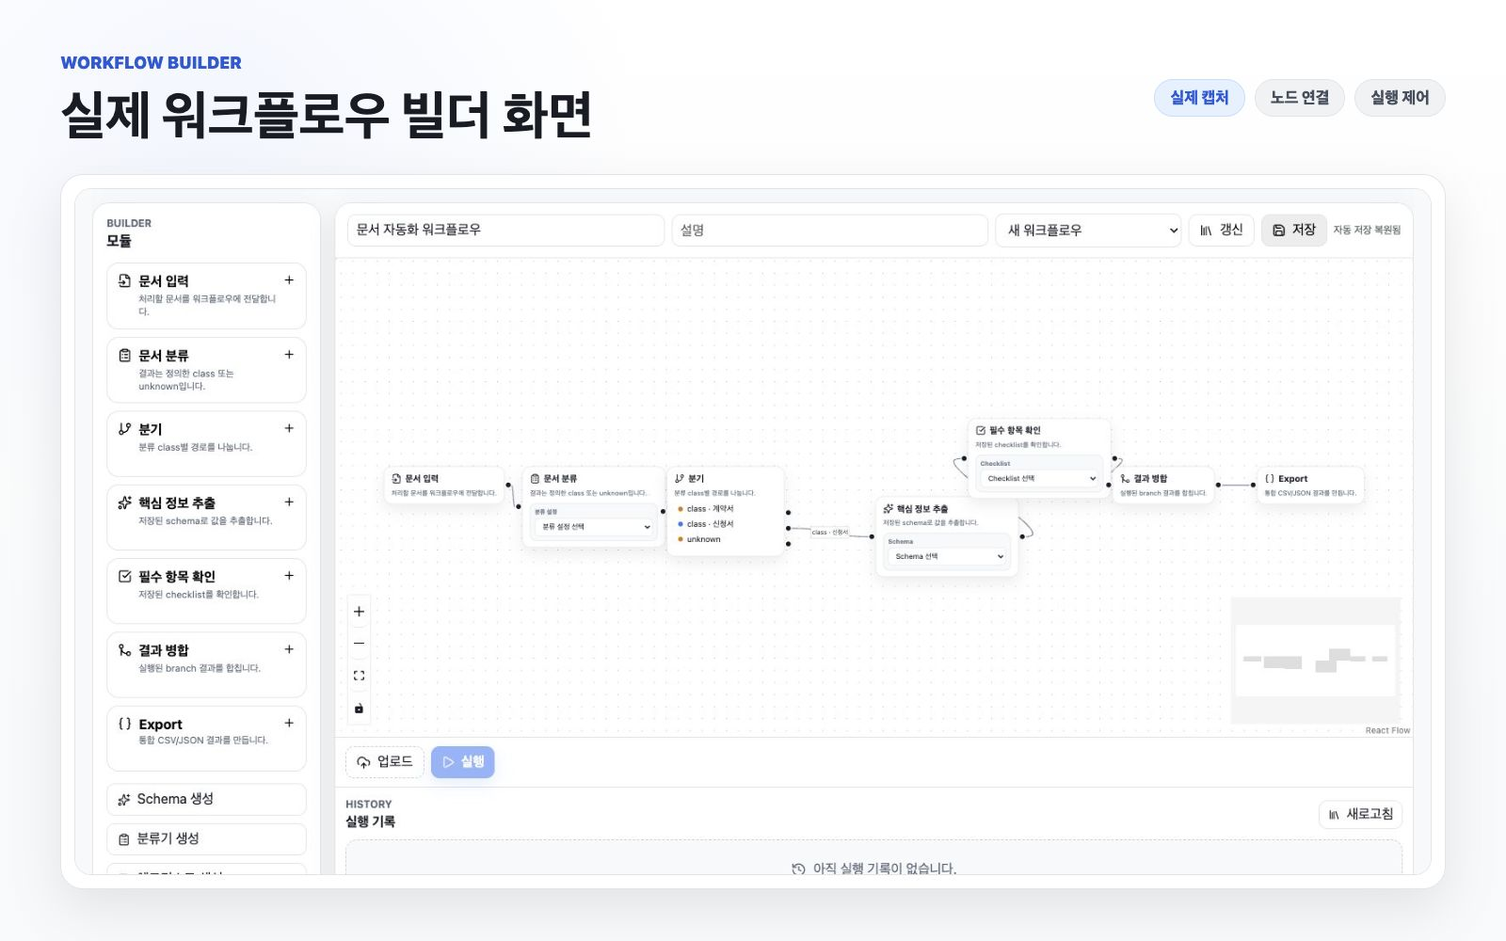
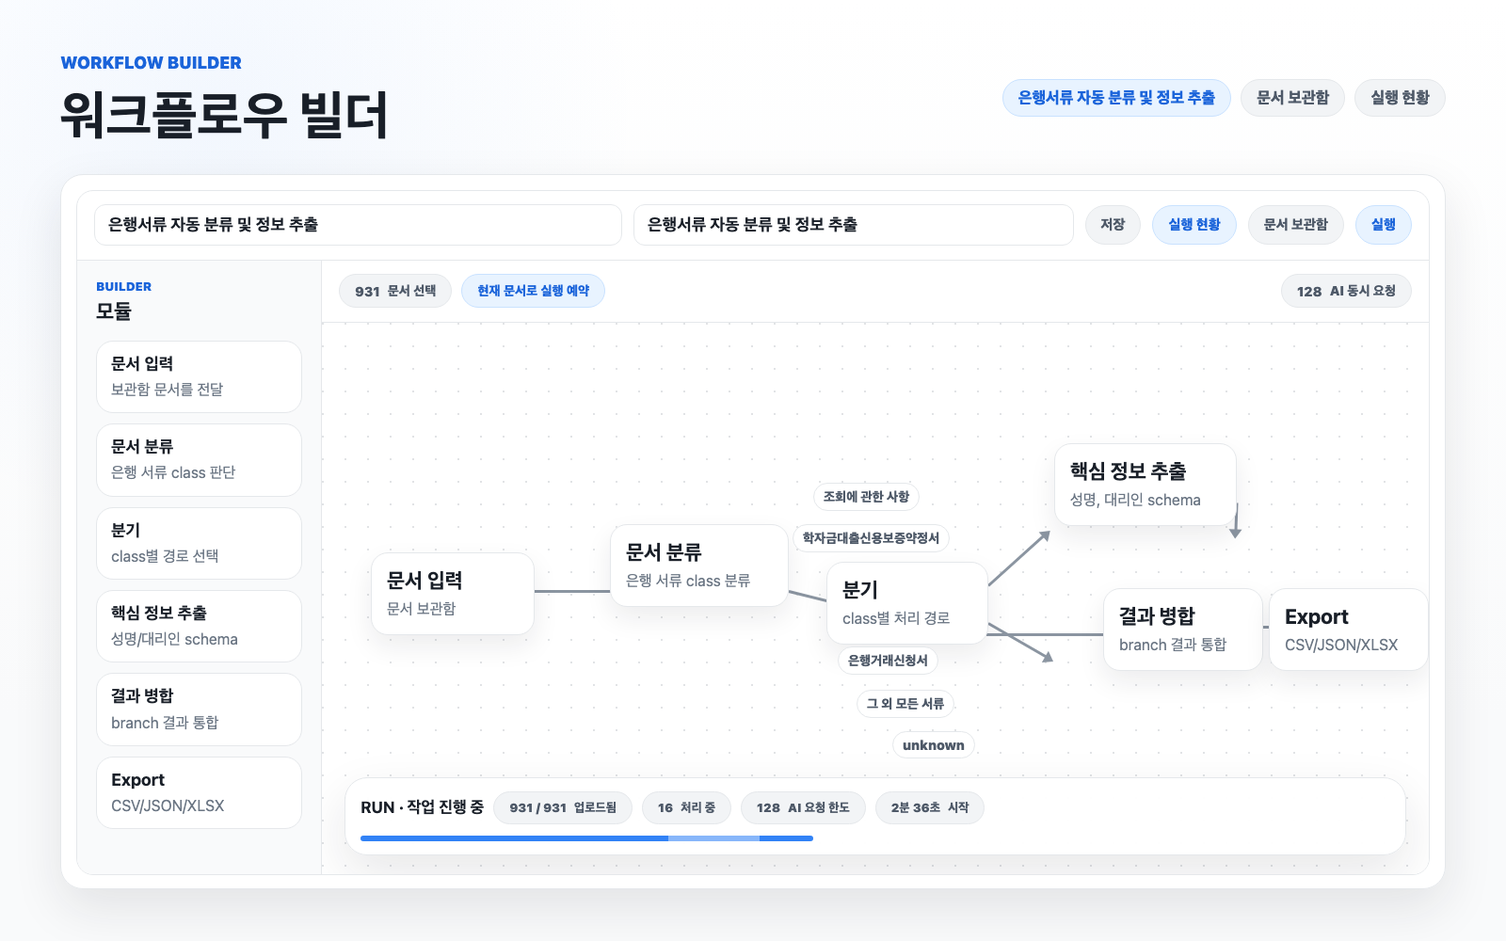
Update README media and docs navigation

diff --git a/assets/readme-src/workflow-builder.html b/assets/readme-src/workflow-builder.html
@@ -11,22 +11,89 @@
       <header style="display: flex; align-items: center; justify-content: space-between;">
         <div>
           <p class="eyebrow">Workflow Builder</p>
-          <h1 style="font-size: 56px;">실제 워크플로우 빌더 화면</h1>
+          <h1 style="font-size: 56px;">워크플로우 빌더</h1>
         </div>
         <div style="display: flex; gap: 10px;">
-          <span class="pill">실제 캡처</span>
-          <span class="pill muted-pill">노드 연결</span>
-          <span class="pill muted-pill">실행 제어</span>
+          <span class="pill">은행서류 자동 분류 및 정보 추출</span>
+          <span class="pill muted-pill">문서 보관함</span>
+          <span class="pill muted-pill">실행 현황</span>
         </div>
       </header>
 
-      <section class="surface" style="height: 760px; margin-top: 32px; overflow: hidden; padding: 14px;">
-        <div style="border: 1px solid var(--gray-200); border-radius: 18px; height: 730px; overflow: hidden; width: 100%;">
-          <img
-            alt="Workflow Builder actual screen"
-            src="./workflow-builder-capture.png"
-            style="display: block; transform: translateY(-84px); width: 100%;"
-          />
+      <section class="surface" style="height: 760px; margin-top: 32px; overflow: hidden; padding: 16px;">
+        <div style="border: 1px solid var(--gray-200); border-radius: 18px; height: 728px; overflow: hidden;">
+          <div style="align-items: center; border-bottom: 1px solid var(--gray-200); display: grid; gap: 12px; grid-template-columns: 1.2fr 1fr auto auto auto auto; height: 74px; padding: 0 18px;">
+            <div class="mini-card" style="border-radius: 12px; padding: 10px 14px;">
+              <b style="font-size: 18px;">은행서류 자동 분류 및 정보 추출</b>
+            </div>
+            <div class="mini-card" style="border-radius: 12px; padding: 10px 14px;">
+              <b style="font-size: 18px;">은행서류 자동 분류 및 정보 추출</b>
+            </div>
+            <span class="pill muted-pill" style="font-size: 15px; min-height: 42px;">저장</span>
+            <span class="pill" style="font-size: 15px; min-height: 42px;">실행 현황</span>
+            <span class="pill muted-pill" style="font-size: 15px; min-height: 42px;">문서 보관함</span>
+            <span class="pill" style="font-size: 15px; min-height: 42px;">실행</span>
+          </div>
+
+          <div style="display: grid; grid-template-columns: 260px minmax(0, 1fr); height: 654px;">
+            <aside style="background: var(--gray-50); border-right: 1px solid var(--gray-200); padding: 20px;">
+              <p class="eyebrow" style="font-size: 13px; margin-bottom: 6px;">Builder</p>
+              <h3 style="font-size: 22px; margin-bottom: 16px;">모듈</h3>
+              <div style="display: grid; gap: 11px;">
+                <div class="mini-card" style="padding: 13px 15px;"><b style="font-size: 18px;">문서 입력</b><span>보관함 문서를 전달</span></div>
+                <div class="mini-card" style="padding: 13px 15px;"><b style="font-size: 18px;">문서 분류</b><span>은행 서류 class 판단</span></div>
+                <div class="mini-card" style="padding: 13px 15px;"><b style="font-size: 18px;">분기</b><span>class별 경로 선택</span></div>
+                <div class="mini-card" style="padding: 13px 15px;"><b style="font-size: 18px;">핵심 정보 추출</b><span>성명/대리인 schema</span></div>
+                <div class="mini-card" style="padding: 13px 15px;"><b style="font-size: 18px;">결과 병합</b><span>branch 결과 통합</span></div>
+                <div class="mini-card" style="padding: 13px 15px;"><b style="font-size: 18px;">Export</b><span>CSV/JSON/XLSX</span></div>
+              </div>
+            </aside>
+
+            <main style="display: grid; grid-template-rows: auto 1fr; min-width: 0;">
+              <div style="align-items: center; border-bottom: 1px solid var(--gray-200); display: flex; gap: 10px; min-height: 66px; padding: 10px 18px;">
+                <span class="pill muted-pill" style="font-size: 14px; min-height: 34px;"><b>931</b> 문서 선택</span>
+                <span class="pill" style="font-size: 14px; min-height: 34px;">현재 문서로 실행 예약</span>
+                <span class="pill muted-pill" style="font-size: 14px; margin-left: auto; min-height: 34px;"><b>128</b> AI 동시 요청</span>
+              </div>
+
+              <div class="canvas" style="border: 0; border-radius: 0; height: 588px;">
+                <div class="node" style="left: 52px; top: 244px; width: 174px;"><b>문서 입력</b><span>문서 보관함</span></div>
+                <div class="edge" style="left: 226px; top: 284px; width: 96px;"></div>
+
+                <div class="node" style="left: 306px; top: 214px; width: 190px;"><b>문서 분류</b><span>은행 서류 class 분류</span></div>
+                <div class="edge" style="left: 496px; top: 284px; width: 72px; transform: rotate(14deg);"></div>
+
+                <div class="node" style="left: 536px; top: 254px; width: 172px;"><b>분기</b><span>class별 처리 경로</span></div>
+                <span class="branch-label" style="left: 522px; top: 170px;">조회에 관한 사항</span>
+                <span class="branch-label" style="left: 500px; top: 214px;">학자금대출신용보증약정서</span>
+                <span class="branch-label" style="left: 548px; top: 344px;">은행거래신청서</span>
+                <span class="branch-label" style="left: 568px; top: 390px;">그 외 모든 서류</span>
+                <span class="branch-label" style="left: 606px; top: 434px;">unknown</span>
+
+                <div class="edge" style="left: 708px; top: 278px; width: 80px; transform: rotate(-42deg);"></div>
+                <div class="node" style="left: 778px; top: 128px; width: 194px;"><b>핵심 정보 추출</b><span>성명, 대리인 schema</span></div>
+
+                <div class="edge" style="left: 708px; top: 318px; width: 72px; transform: rotate(30deg);"></div>
+                <div class="edge" style="left: 972px; top: 190px; width: 30px; transform: rotate(92deg);"></div>
+                <div class="edge" style="left: 706px; top: 330px; width: 134px;"></div>
+                <div class="node" style="left: 830px; top: 282px; width: 146px;"><b>결과 병합</b><span>branch 결과 통합</span></div>
+
+                <div class="edge" style="left: 976px; top: 322px; width: 34px;"></div>
+                <div class="node" style="left: 1006px; top: 282px; width: 132px;"><b>Export</b><span>CSV/JSON/XLSX</span></div>
+
+                <div class="surface" style="bottom: 22px; left: 24px; padding: 14px 16px; position: absolute; right: 24px;">
+                  <div style="align-items: center; display: flex; gap: 10px;">
+                    <b style="font-size: 17px;">RUN · 작업 진행 중</b>
+                    <span class="pill muted-pill" style="font-size: 13px; min-height: 30px;"><b>931 / 931</b> 업로드됨</span>
+                    <span class="pill muted-pill" style="font-size: 13px; min-height: 30px;"><b>16</b> 처리 중</span>
+                    <span class="pill muted-pill" style="font-size: 13px; min-height: 30px;"><b>128</b> AI 요청 한도</span>
+                    <span class="pill muted-pill" style="font-size: 13px; min-height: 30px;"><b>2분 36초</b> 시작</span>
+                  </div>
+                  <div class="progress-line" style="height: 6px; margin-top: 12px; width: 44%;"></div>
+                </div>
+              </div>
+            </main>
+          </div>
         </div>
       </section>
     </main>

diff --git a/assets/readme-src/core-modules.html b/assets/readme-src/core-modules.html
@@ -31,7 +31,7 @@
             <div class="mini-card"><b>Input</b><span>single/batch</span></div>
             <div class="mini-card"><b>Branch</b><span>class path</span></div>
             <div class="mini-card"><b>Merge</b><span>결과 통합</span></div>
-            <div class="mini-card"><b>Export</b><span>CSV/JSON</span></div>
+            <div class="mini-card"><b>Export</b><span>CSV/JSON/XLSX</span></div>
           </div>
         </article>
 
@@ -40,7 +40,7 @@
           <p style="font-size: 19px; margin-top: 6px;">문서 preview, module 결과, 상태를 같은 화면에서 확인합니다.</p>
           <div class="table" style="margin-top: 18px;">
             <div class="table-row header"><span>결과</span><span>상태</span><span>내보내기</span></div>
-            <div class="table-row"><span>KIE</span><span>완료</span><span>CSV</span></div>
+            <div class="table-row"><span>KIE</span><span>완료</span><span>XLSX</span></div>
             <div class="table-row"><span>Required</span><span>검토</span><span>JSON</span></div>
           </div>
         </article>
@@ -77,7 +77,7 @@
           </div>
           <div class="table" style="margin-top: 18px;">
             <div class="table-row header"><span>필드</span><span>값</span><span>신뢰도</span></div>
-            <div class="table-row"><span>성명</span><span>김토스</span><span>98%</span></div>
+            <div class="table-row"><span>성명</span><span>홍길동</span><span>98%</span></div>
           </div>
         </article>
 

diff --git a/docs/readme-media.html b/docs/readme-media.html
@@ -947,7 +947,7 @@
               <div class="mini-card"><strong>Input</strong><p>file/folder</p></div>
               <div class="mini-card"><strong>Branch</strong><p>class path</p></div>
               <div class="mini-card"><strong>Merge</strong><p>결과 통합</p></div>
-              <div class="mini-card"><strong>Export</strong><p>CSV/JSON</p></div>
+              <div class="mini-card"><strong>Export</strong><p>CSV/JSON/XLSX</p></div>
             </div>
           </div>
           <div class="module-hero">
@@ -974,7 +974,7 @@
         </div>
         <div class="module-card">
           <div class="module-title"><span class="letter">K</span><div><h3>Key Information Extractor</h3><p>schema 기준으로 field, value, evidence를 추출합니다.</p></div></div>
-          <div class="compact-table"><div><span>필드</span><span>값</span><span>신뢰도</span></div><div><span>성명</span><span>김토스</span><span>98%</span></div></div>
+          <div class="compact-table"><div><span>필드</span><span>값</span><span>신뢰도</span></div><div><span>성명</span><span>홍길동</span><span>98%</span></div></div>
         </div>
         <div class="module-card">
           <div class="module-title"><span class="letter">Q</span><div><h3>Required Field Checker</h3><p>필수 항목 존재 여부를 상태로 정리합니다.</p></div></div>

diff --git a/assets/readme-src/workflow-builder-results.html b/assets/readme-src/workflow-builder-results.html
@@ -41,7 +41,7 @@
       <header style="display: flex; align-items: center; justify-content: space-between;">
         <div>
           <p class="eyebrow">Workflow Builder</p>
-          <h1 style="font-size: 56px;">워크플로우 빌더</h1>
+          <h1 style="font-size: 56px;">워크플로우 빌더: 결과 검토</h1>
         </div>
         <div style="display: flex; gap: 10px;">
           <span class="pill">결과 상세보기</span>

diff --git a/README.md b/README.md
@@ -29,6 +29,8 @@ NGROK_URL=https://your-domain.ngrok.app ACCESS_CODE=<shared-code> ./scripts/star
 
 ## Features
 
+### 단일 모듈 실행과 워크플로우 연결
+
 ![Core modules](assets/readme/core-modules.png)
 
 | Module | Purpose |
@@ -56,7 +58,11 @@ NGROK_URL=https://your-domain.ngrok.app ACCESS_CODE=<shared-code> ./scripts/star
 
 ## Workflow Builder
 
+### 워크플로우 빌더
+
 ![Workflow Builder](assets/readme/workflow-builder.png)
+
+### 워크플로우 빌더: 결과 검토
 
 ![Workflow Builder result view](assets/readme/workflow-builder-results.png)
 
@@ -65,9 +71,9 @@ NGROK_URL=https://your-domain.ngrok.app ACCESS_CODE=<shared-code> ./scripts/star
 - 새 업로드는 먼저 보관함에 저장되고, workflow run은 보관함 document id를 참조합니다.
 - 보관함 문서를 선택하면 업로드를 반복하지 않고 같은 원본 payload를 재사용합니다.
 - 새로고침이나 네트워크 끊김 후에는 `이어가기`로 같은 원본을 다시 선택해 남은 항목만 업로드할 수 있습니다.
-- 실행 중에는 `추론 일시중단`, `이어하기`, `같은 문서로 다시 실행`, `실행 예약`, `추론 중단`으로 상태를 제어합니다.
+- 실행 중에는 `추론 일시중단`, `이어하기`, `실행 예약`, `추론 중단`으로 상태를 제어합니다.
 - 워크플로우 중단은 보관함 문서를 삭제하지 않고 진행 중인 추론만 멈춥니다. 원본 삭제는 문서 보관함에서만 수행합니다.
-- `대기열 추가`는 업로드된 원본 문서를 복사하지 않고 다음 workflow run을 `waiting` 상태로 등록하며, 앞선 run이 끝나면 자동으로 시작합니다.
+- `실행 예약`은 업로드된 원본 문서를 복사하지 않고 다음 workflow run을 `waiting` 상태로 등록하며, 앞선 run이 끝나면 자동으로 시작합니다.
 - 진행 상태는 `업로드됨`, `전처리`, `실행 중`, `대기`, `완료/검토/실패` counter로 분리해 표시합니다.
 - 결과 화면은 문서 목록 스크롤 위치를 유지하고, 상세 결과에서 문서 이미지와 module output을 함께 검수합니다.
 - 결과 CSV/JSON에는 문서별 `upload_duration_ms`, `inference_duration_ms`가 포함됩니다.
@@ -86,18 +92,13 @@ NGROK_URL=https://your-domain.ngrok.app ACCESS_CODE=<shared-code> ./scripts/star
 
 공통 상태는 `uploading`, `preprocessing`, `waiting`, `running`, `paused`, `completed`, `needs_review`, `completed_with_errors`, `failed`, `canceled`를 사용합니다.
 
-## Recovery Controls
+## Detailed Docs
 
-| Control | Behavior |
+| Topic | Link |
 | --- | --- |
-| `추론 중단` | 실행 기록과 보관함 문서는 남기고 현재 workflow inference만 취소합니다. |
-| `계속 처리` | 업로드가 끝났지만 아직 실행되지 않은 run/batch를 시작합니다. |
-| `이어가기` | 새로고침 등으로 끊긴 업로드에서 같은 원본을 재선택해 누락 파일만 등록합니다. |
-| `일시중단` | 업로드된 문서는 보존하고, 새 item 실행을 멈춥니다. 진행 중인 VLM 호출은 현재 item까지만 마무리합니다. |
-| `같은 문서로 다시 실행` | 보관함의 같은 document id를 재사용해 현재 workflow snapshot으로 새 run을 만듭니다. |
-| `대기열 추가` | 업로드된 원본은 공유하고 새 workflow snapshot을 `waiting` run으로 추가합니다. 이전 run이 `completed`, `needs_review`, `completed_with_errors`가 되면 다음 대기 run을 자동 시작합니다. |
-| `대기 취소` | 아직 시작하지 않은 `waiting` run만 취소하며 공유 문서는 삭제하지 않습니다. |
-| `실패 재시도` | 결과 상세 화면에서 실패한 문서만 다시 queue에 넣고, 성공한 문서는 그대로 보존합니다. |
+| Recovery controls | [docs/recovery-controls.md](docs/recovery-controls.md) |
+| API shape | [docs/api-shape.md](docs/api-shape.md) |
+| Production hosting | [docs/deployment.md](docs/deployment.md) |
 
 ## Input / Output
 
@@ -113,25 +114,7 @@ NGROK_URL=https://your-domain.ngrok.app ACCESS_CODE=<shared-code> ./scripts/star
 | KIE | field, value, normalized value, confidence, evidence |
 | Classification | class name, confidence, reason, evidence |
 | Required Check | item별 present/missing/uncertain/not_applicable |
-| Workflow Export | branch별 union-column CSV/JSON, upload/inference duration |
-
-## API Shape
-
-| Area | Endpoint |
-| --- | --- |
-| System status | `GET /api/system/status` |
-| Document library | `POST /api/library/uploads`, `GET /api/documents`, `GET /api/documents/ids`, `POST /api/documents/selection`, `POST /api/documents/delete`, `GET /api/library/tree`, `POST /api/library/folders`, `POST /api/library/copy`, `POST /api/library/move`, `DELETE /api/documents/{document_id}` |
-| Workflow from library | `POST /api/workflows/{workflow_id}/runs/from-documents` |
-| Workflow upload legacy | `POST /api/workflows/{workflow_id}/runs/init`, `POST /api/workflow-runs/{run_id}/items`, `POST /api/workflow-runs/{run_id}/start` |
-| Workflow recovery | `POST /api/workflow-runs/{run_id}/discard`, `POST /api/workflow-runs/{run_id}/resume`, `POST /api/workflow-runs/{run_id}/pause`, `POST /api/workflow-runs/{run_id}/restart`, `POST /api/workflow-runs/{run_id}/retry-failed` |
-| Workflow queue | `POST /api/workflow-runs/{run_id}/enqueue`, `POST /api/workflow-runs/{run_id}/cancel-waiting`, `POST /api/workflow-runs/{run_id}/start` |
-| KIE from library | `POST /api/batches/from-documents` |
-| Classification from library | `POST /api/classification-batches/from-documents` |
-| Required check from library | `POST /api/required-field-check-batches/from-documents` |
-| Legacy batch upload | `POST /api/batches/init`, `POST /api/batches/{batch_id}/items`, `POST /api/batches/{batch_id}/start` |
-| Summary polling | `GET /api/workflow-runs/{run_id}/summary`, `GET /api/batches/{batch_id}/summary` 계열 |
-
-기존 단일 `/api/documents` multipart API는 호환성용으로 즉시 전처리 완료 계약을 유지합니다. 보관함 대량 업로드 API가 백그라운드 conversion queue를 사용합니다.
+| Workflow Export | branch별 union-column CSV/JSON/XLSX, upload/inference duration |
 
 ## Stack
 
@@ -182,59 +165,13 @@ VLM_MODEL_NAME=mock-vlm
 | `DATABASE_MAX_OVERFLOW` | `0` | pool 크기를 넘는 임시 connection 허용 수 |
 | `DATABASE_POOL_TIMEOUT_SECONDS` | `60` | DB connection 대기 timeout |
 | `UPLOAD_MAX_BATCH_FILES` | `10000` | 한 번에 업로드할 수 있는 batch 파일 수 |
+| `UPLOAD_RETENTION_HOURS` | `24` | 업로드 문서 보존 시간 |
 
 Workflow local blocking work는 `WORKFLOW_MAX_WORKERS` 크기의 전용 executor 큐로 제한합니다. 대량 문서 실행에서 worker 대기 자체가 Python default threadpool을 점유하지 않도록 하기 위한 구조입니다.
 
 Workflow 화면의 `처리 중`은 workflow item이 모듈 단계에 진입한 문서 수입니다. 실제 provider 동시 호출 수는 별도 KPI인 `AI 요청 중 / AI 요청 한도`, provider 호출 대기는 `AI 요청 대기`로 표시됩니다. async VLM 호출은 `VLM_TIMEOUT_SECONDS` 안에 완료되지 않으면 실패/재시도 경로로 수렴합니다.
-| `UPLOAD_RETENTION_HOURS` | `24` | 업로드 문서 보존 시간 |
 
 운영에서 5,000장 이상 대량 처리를 자주 실행한다면 SQLite보다 Postgres 사용을 권장합니다.
-
-## Production Hosting
-
-기본 배포 방식은 frontend 정적 호스팅과 backend API 분리 배포입니다. 단일 서버 fallback도 지원합니다.
-
-| Env | Description |
-| --- | --- |
-| `APP_ENV=production` | production mode |
-| `ACCESS_CONTROL_MODE=shared_secret` | 공유 접근 코드 기반 접근 제어 |
-| `APP_ACCESS_SECRET` | 외부 접근 코드 |
-| `SESSION_SECRET_KEY` | HttpOnly session cookie 서명 키 |
-| `CORS_ALLOWED_ORIGINS` | frontend origin allowlist |
-| `DATABASE_URL` | SQLite 또는 Postgres URL |
-| `STORAGE_BACKEND=local` | local persistent volume 저장 |
-| `SERVE_FRONTEND=true` | FastAPI가 `frontend/dist`를 직접 서빙 |
-
-```bash
-cd frontend
-npm run build
-
-APP_ENV=production \
-ACCESS_CONTROL_MODE=shared_secret \
-APP_ACCESS_SECRET=<shared-code> \
-SESSION_SECRET_KEY=<session-secret> \
-DATABASE_URL=sqlite:////data/document-automation.db \
-DOCUMENT_STORAGE_DIR=/data/documents \
-RAW_STORAGE_DIR=/data/raw \
-PROCESSING_TMP_DIR=/data/processing \
-UPLOAD_RETENTION_HOURS=24 \
-SERVE_FRONTEND=true \
-FRONTEND_DIST_DIR="$(pwd)/dist" \
-../.venv/bin/python -m uvicorn app.main:app --app-dir ../backend --host 0.0.0.0 --port 8000
-```
-
-세부 배포 절차는 [docs/deployment.md](docs/deployment.md)에 정리되어 있습니다.
-
-## README Media
-
-README 이미지는 `assets/readme-src/*.html`에서 관리합니다. 워크플로우 빌더 이미지는 로컬 웹 UI를 직접 캡처한 화면을 사용하고, 나머지는 같은 스타일의 HTML artboard를 `assets/readme/*.png`로 렌더링합니다.
-
-## Test
-
-```bash
-npm run build --prefix frontend
-.venv/bin/python -m pytest backend -q
-```
 
 ## Repository
 

diff --git a/docs/api-shape.md b/docs/api-shape.md
@@ -1,0 +1,24 @@
+# API Shape
+
+주요 API는 문서 보관함을 기준으로 구성되어 있습니다. 기존 multipart 업로드 API는 호환성과 업로드 이어가기를 위해 유지합니다.
+
+| Area | Endpoint |
+| --- | --- |
+| System status | `GET /api/system/status` |
+| Document library | `POST /api/library/uploads`, `GET /api/documents`, `GET /api/documents/ids`, `POST /api/documents/selection`, `POST /api/documents/delete`, `GET /api/library/tree`, `POST /api/library/folders`, `POST /api/library/copy`, `POST /api/library/move`, `DELETE /api/documents/{document_id}` |
+| Workflow from library | `POST /api/workflows/{workflow_id}/runs/from-documents` |
+| Workflow upload legacy | `POST /api/workflows/{workflow_id}/runs/init`, `POST /api/workflow-runs/{run_id}/items`, `POST /api/workflow-runs/{run_id}/start` |
+| Workflow recovery | `POST /api/workflow-runs/{run_id}/discard`, `POST /api/workflow-runs/{run_id}/resume`, `POST /api/workflow-runs/{run_id}/pause`, `POST /api/workflow-runs/{run_id}/restart`, `POST /api/workflow-runs/{run_id}/retry-failed` |
+| Workflow queue | `POST /api/workflow-runs/{run_id}/enqueue`, `POST /api/workflow-runs/{run_id}/cancel-waiting`, `POST /api/workflow-runs/{run_id}/start`, `DELETE /api/workflow-runs/{run_id}/queue-entry` |
+| KIE from library | `POST /api/batches/from-documents` |
+| Classification from library | `POST /api/classification-batches/from-documents` |
+| Required check from library | `POST /api/required-field-check-batches/from-documents` |
+| Legacy batch upload | `POST /api/batches/init`, `POST /api/batches/{batch_id}/items`, `POST /api/batches/{batch_id}/start` |
+| Summary polling | `GET /api/workflow-runs/{run_id}/summary`, `GET /api/batches/{batch_id}/summary` 계열 |
+
+## Notes
+
+- 기존 단일 `/api/documents` multipart API는 호환성용으로 즉시 전처리 완료 계약을 유지합니다.
+- 보관함 대량 업로드 API는 백그라운드 conversion queue를 사용합니다.
+- 목록 polling은 summary endpoint를 사용하고, 상세 화면에서만 item/page payload를 가져오는 방향이 기본입니다.
+- Workflow export는 CSV, JSON, XLSX 형식을 지원합니다.

diff --git a/docs/recovery-controls.md b/docs/recovery-controls.md
@@ -1,0 +1,22 @@
+# Recovery Controls
+
+문서 보관함 도입 이후 실행 제어의 기준은 “원본 문서는 보존하고, 실행/추론 상태만 제어한다”입니다. 원본 삭제는 문서 보관함에서만 수행합니다.
+
+| Control | Behavior |
+| --- | --- |
+| `추론 일시중단` | 새 item 실행을 멈춥니다. 이미 provider로 나간 VLM 호출은 늦게 돌아오더라도 run generation과 item 상태를 확인한 뒤 저장 여부를 결정합니다. |
+| `이어하기` | 일시중단된 run/batch의 남은 item을 다시 실행합니다. 업로드된 문서는 다시 업로드하지 않습니다. |
+| `추론 중단` | 실행 기록과 보관함 문서는 남기고 현재 workflow inference만 취소합니다. |
+| `실행 예약` | 현재 보관함 document id 묶음을 재사용하고, 현재 workflow snapshot을 `waiting` run으로 등록합니다. 앞선 run이 `completed`, `needs_review`, `completed_with_errors`가 되면 다음 대기 run을 자동 시작합니다. |
+| `대기 삭제` | 아직 시작하지 않은 `waiting` run만 취소합니다. 공유 문서 payload는 삭제하지 않습니다. |
+| `바로 실행` | 같은 실행 그룹에서 가장 앞선 `waiting` run에만 허용합니다. 뒤 순서 run은 순차 실행 정책 때문에 거부됩니다. |
+| `실패 재시도` | 결과 상세 화면에서 실패한 문서만 다시 queue에 넣고, 성공한 문서는 그대로 보존합니다. |
+| `업로드 이어가기` | 새로고침 등으로 끊긴 legacy upload에서 같은 원본을 재선택해 누락 파일만 등록합니다. |
+
+## Execution Reservation Policy
+
+- `실행 예약`은 업로드를 수행하지 않습니다.
+- `waiting` run을 다시 예약하는 것은 차단합니다.
+- 자동 진행은 `completed`, `completed_with_errors`, `needs_review`에서만 다음 waiting run으로 넘어갑니다.
+- `failed`, `paused`, `canceled`에서는 자동 진행을 멈춥니다.
+- 대기 삭제와 추론 중단은 원본 document payload를 삭제하지 않습니다.
